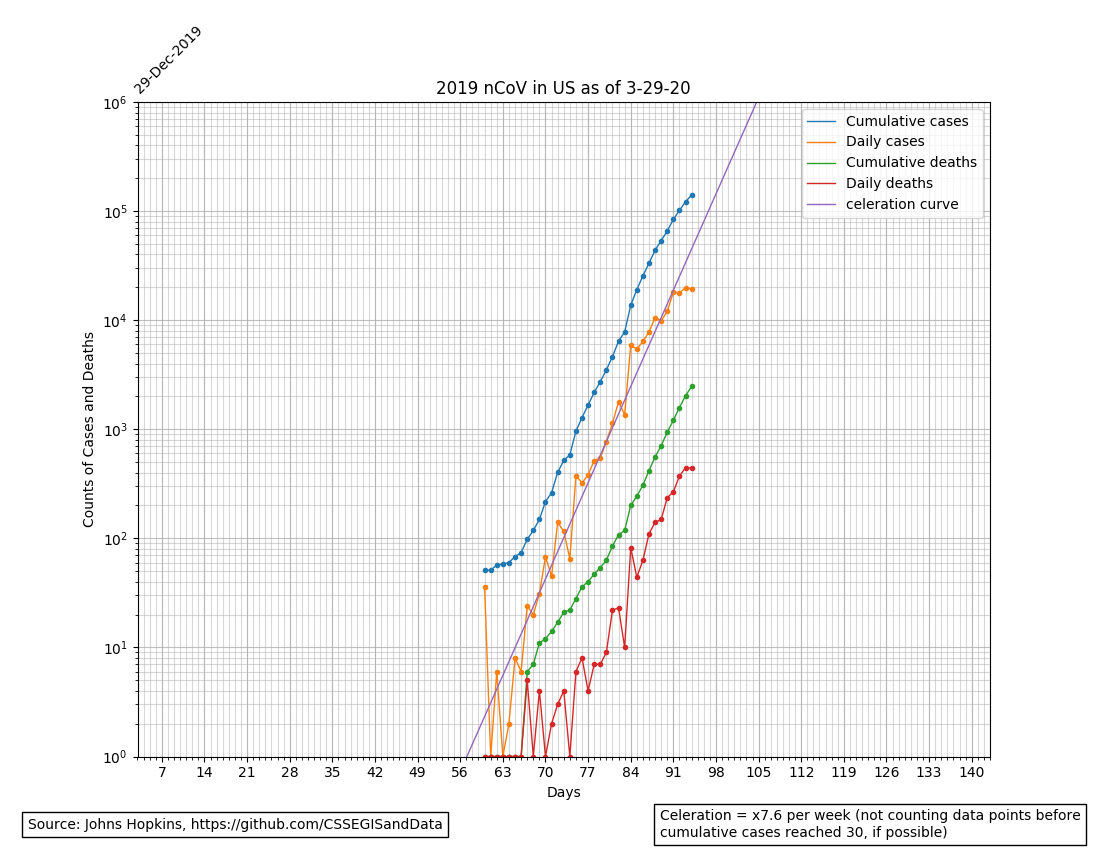
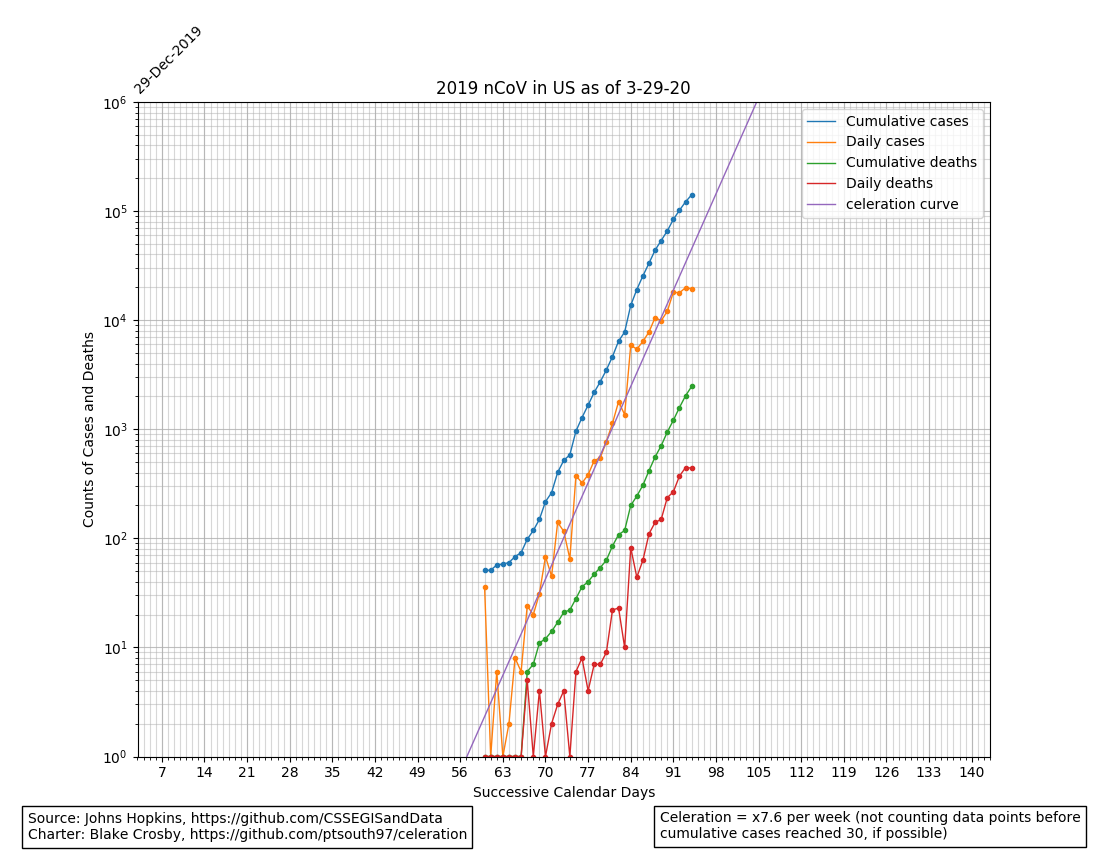
updated README

Changed region(s): [[0.4327, 0.9176, 0.9891, 1.0], [0.0, 0.9482, 0.4327, 1.0]]

diff --git a/charting.py b/charting.py
@@ -58,13 +58,16 @@ def plot_data(df, area, state, celeration, date, mode):
 	
 	
 	# Create text box
-	fig.text(0.6, 0.03, 'Celeration = x{:.1f} per week (not counting data points before cumulative cases reached 30, if possible)'.format(celeration),\
+	fig.text(0.6, 0.028, 'Celeration = x{:.1f} per week (not counting data points before cumulative cases reached 30, if possible)'.format(celeration),\
 			horizontalalignment='left', \
 			verticalalignment='center', \
 			bbox=dict(facecolor='white', alpha=1.0), \
 			wrap=True)
 	
-	fig.text(0.025, 0.025, 'Source: Johns Hopkins, https://github.com/CSSEGISandData', bbox=dict(facecolor='white', alpha=1.0))
+	fig.text(0.025, 0.013, 'Source: Johns Hopkins, https://github.com/CSSEGISandData' + '\n' \
+			+ 'Charter: Blake Crosby, https://github.com/ptsouth97/celeration', bbox=dict(facecolor='white', alpha=1.0))
+
+	#fig.text(0.025, 0.015, 'Charter: Blake Crosby, https://github.com/ptsouth97/celeration')
 	fig.text(0.12, 0.96, '29-Dec-2019', rotation=45)
 
 	# label chart
@@ -75,7 +78,7 @@ def plot_data(df, area, state, celeration, date, mode):
 	else:
 		plt.title('2019 nCoV in {} as of {}'.format(state, date))
 
-	plt.xlabel('Days')
+	plt.xlabel('Successive Calendar Days')
 	plt.ylabel('Counts of Cases and Deaths')
 	
 	# change to appropriate directory to save chart

diff --git a/app.py b/app.py
@@ -20,7 +20,7 @@ def main():
 	mode = 'solo'
 
 	# define region of interest -- 'state', 'country', 'all countries', or 'all states'
-	region = 'all countries'
+	region = 'country'
 
 	state = None
 
@@ -46,7 +46,7 @@ def main():
 		state = 'South Carolina'
 
 	elif region == 'country':
-		countries = ['Korea, South']
+		countries = ['US']
 	
 	results = pd.DataFrame()	
 

diff --git a/README.md b/README.md
@@ -3,3 +3,18 @@
 This application's purpose is to analyze data about COVID-19 from [this repo](https://github.com/CSSEGISandData) 
 
 ## Workflow
+* User must decide chart will contain a single region or comparison of multiple regions
+* User must define the region(s) of interest
+* User can define the end date or all of the data will be used
+* User can decide to make a single chart or use a loop to generate multiple charts
+* User must specify the country(s) of interest or choose 'all countries'
+* User must have a folder containing the latest COVID-19 data from github (see above)
+* The 'load_data' function changes to the COVID-19 folder and reads the appropriate .csv as a dataframe
+* The 'get_data' function slices the appropriate dataframe information for the specified region
+* The main function 'for loop' goes through a list of all the region of interest.  For each region:
+	* The 'count
+
+## Dependencies
+* matplotlib (3.0.2)
+* numpy (1.18.1)
+* scikit-learn (0.19.2)
